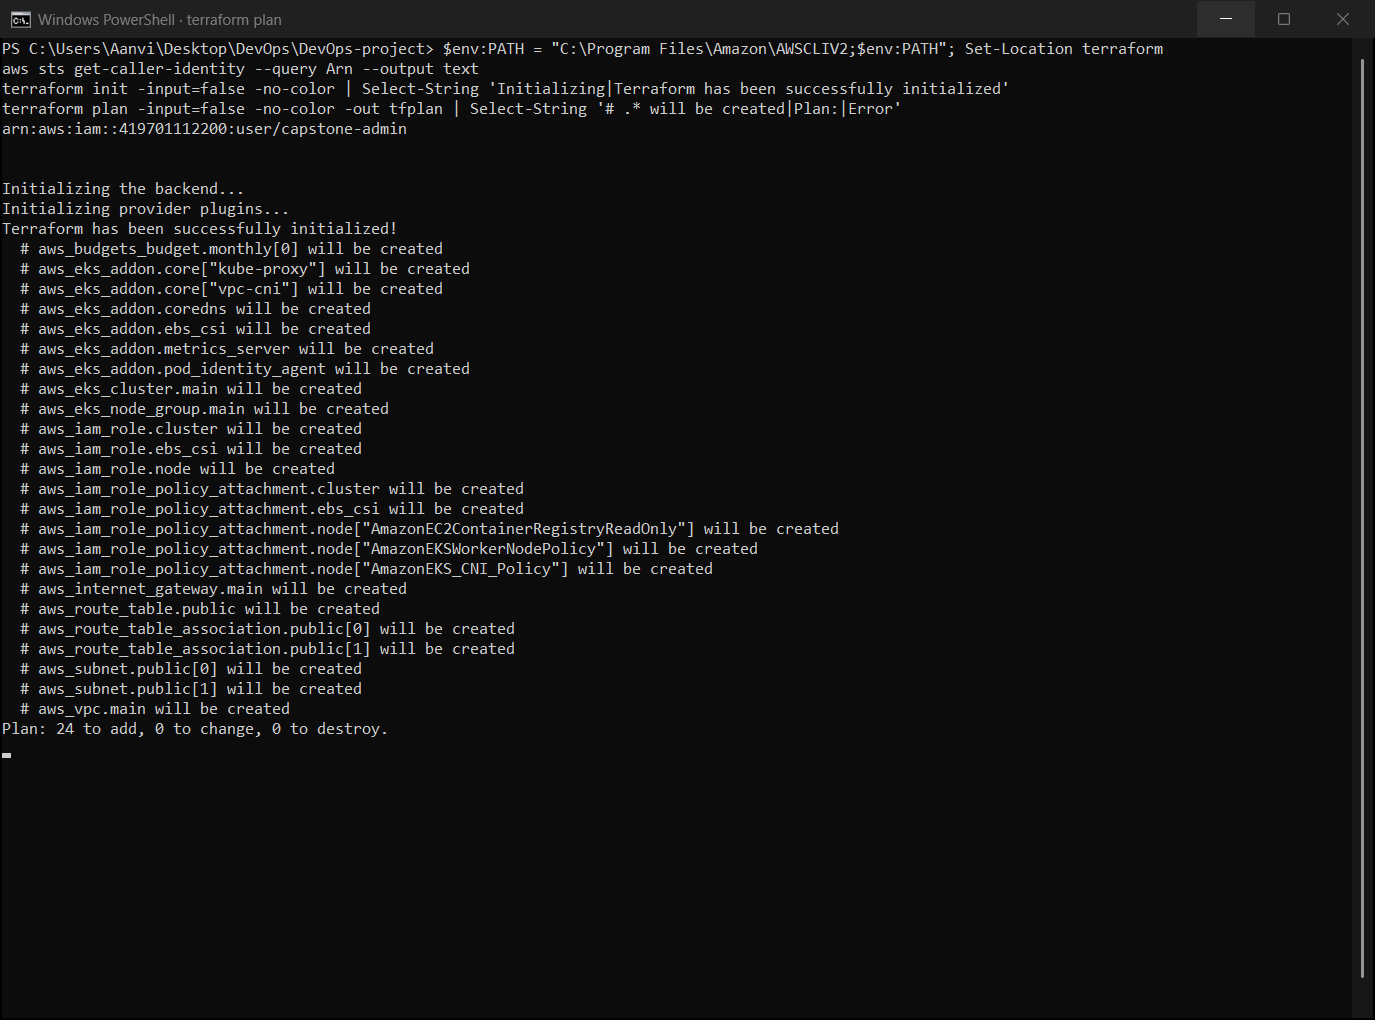
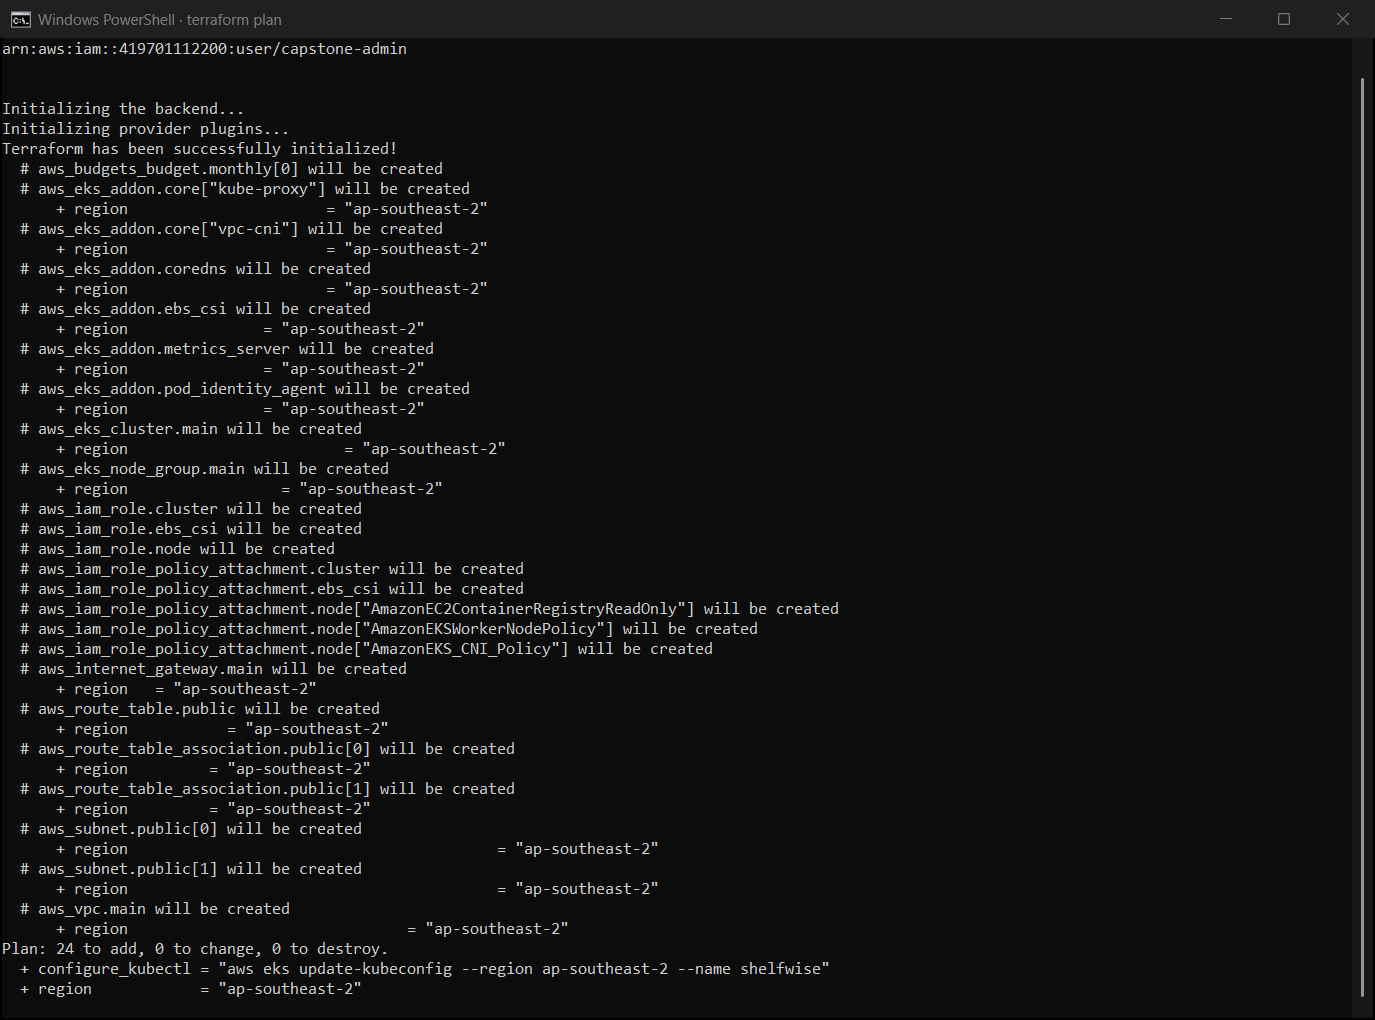
Add evidence of the real AWS deployment and its teardown (M7)
Terraform provisioned the VPC, two public subnets and an EKS 1.35 cluster with a
managed node group in ap-southeast-2 (24 resources), and the app was deployed onto
it with eks-up.ps1 and served through an AWS load balancer. Then eks-down.ps1
destroyed all 24 resources, and a final check found no clusters, instances, load
balancers, volumes or tagged resources left. Screenshots cover the plan, apply,
AWS Console (VPC and EKS), kubectl and the browser on EKS, and destroy.
SUBMISSION.md records the Free plan limits that shaped the run: Sydney only, no
Spot, and Free Tier instance types, which is why the first t3.medium node group
was replaced with m7i-flex.large.

Changed region(s): [[0.0, 0.0304, 0.8553, 0.9725], [0.3665, 0.8206, 0.4582, 0.8814], [0.5193, 0.9422, 0.5804, 0.9725]]

diff --git a/docs/SUBMISSION.md b/docs/SUBMISSION.md
@@ -68,29 +68,24 @@ Extra gates in the same pipeline: ruff lint and format (with bandit rules), a 90
 
 ## M7 · Terraform on AWS (15)
 
-> **Status at submission:** the Terraform code is complete, validated in CI, and `terraform plan` runs against the real AWS account. Creating the resources was **blocked by AWS**, not by the code. The account is a brand-new AWS **Free plan** account ($100 of credits, status ACTIVE), and AWS's service control policy on it explicitly denies EC2 and EKS calls in every region, even read-only ones ([m7-account-blocked.png](evidence/m7-account-blocked.png)). The apply, console and destroy screenshots will be added when the account allows it (see *Finishing M7* below).
+Provisioned for real on **AWS account 419701112200** (Free plan, paid from its credits), then destroyed the same day. The Free plan shaped three choices, recorded honestly here:
+- **Region.** The account is limited to **Sydney (`ap-southeast-2`)**; every other region is denied by AWS's service control policy ([m7-account-blocked.png](evidence/m7-account-blocked.png) shows the Mumbai attempt). The region is a single Terraform variable, so the same code targets any region.
+- **No Spot.** Spot launches are denied on the Free plan, so `node_capacity_type = "ON_DEMAND"`.
+- **Free Tier instance types only.** A first apply with `t3.medium` nodes stalled: AWS refused the launches with *"not eligible for Free Tier"*. The node group was removed and re-created on **`m7i-flex.large`** (2 vCPU, 8 GiB, Free Tier eligible). That is why the apply screenshot shows the final 5 resources: the other 19 were created by the first run.
 
 | Criterion | Where | Evidence |
 |---|---|---|
 | Valid HCL in `terraform/` | [`terraform/`](../terraform/): plain resources, no modules | CI job "Terraform · fmt and validate" in [m5-pipeline-green.png](evidence/m5-pipeline-green.png) |
 | `terraform init` succeeds | n/a | [m7-terraform-plan.png](evidence/m7-terraform-plan.png) |
-| `terraform plan` non-empty, no errors | run as `capstone-admin` in account 419701112200 | [m7-terraform-plan.png](evidence/m7-terraform-plan.png): **24 to add**, including VPC, 2 public subnets, EKS cluster and node group |
-| VPC with ≥2 public subnets | [`network.tf`](../terraform/network.tf) | pending: account blocked ([m7-account-blocked.png](evidence/m7-account-blocked.png)) |
-| EKS with a worker node group | [`cluster.tf`](../terraform/cluster.tf), [`nodes.tf`](../terraform/nodes.tf) | pending: account blocked |
-| `terraform destroy` clean | [`scripts/eks-down.ps1`](../scripts/eks-down.ps1) | pending: account blocked |
+| `terraform plan` non-empty, no errors | n/a | [m7-terraform-plan.png](evidence/m7-terraform-plan.png): **24 to add** in `ap-southeast-2` |
+| VPC with ≥2 public subnets | [`network.tf`](../terraform/network.tf) | [m7-aws-console-vpc.png](evidence/m7-aws-console-vpc.png) (`shelfwise-vpc`, 10.42.0.0/16), [m7-terraform-apply.png](evidence/m7-terraform-apply.png) (VPC id and subnet outputs) |
+| EKS with a worker node group | [`cluster.tf`](../terraform/cluster.tf), [`nodes.tf`](../terraform/nodes.tf) | [m7-aws-console-eks.png](evidence/m7-aws-console-eks.png) (Active, 1.35), [m7-eks-kubectl.png](evidence/m7-eks-kubectl.png) (2 Ready nodes, app running) |
+| `terraform destroy` clean | [`scripts/eks-down.ps1`](../scripts/eks-down.ps1) | [m7-terraform-destroy.png](evidence/m7-terraform-destroy.png) |
 | `terraform.tfvars.example`, no credentials | [`terraform.tfvars.example`](../terraform/terraform.tfvars.example); gitleaks in CI | n/a |
 
-The plan pins the two availability zones (`availability_zones` in `terraform.tfvars`), because listing zones is one of the EC2 calls the account cannot make yet. Leaving that setting empty makes Terraform look the zones up from AWS instead. Apply behaves the same either way, so nothing has to change in the code once the account is unblocked.
+The app was also deployed onto this cluster with [`scripts/eks-up.ps1`](../scripts/eks-up.ps1) (ingress-nginx behind an AWS load balancer, a random database password, the Helm chart, and `helm test` passing). See [m8-eks-ingress-browser.png](evidence/m8-eks-ingress-browser.png).
 
-Cost-conscious design (no NAT gateway, Spot nodes, standard-support pin, budget alert) is explained in [terraform/README.md](../terraform/README.md).
-
-### Finishing M7 once the account allows EC2/EKS
-
-1. Check access: `aws ec2 describe-availability-zones --region ap-south-1` must list zones instead of an `UnauthorizedOperation` error.
-2. `./scripts/eks-up.ps1`: terraform apply (asks first), ingress controller, the app, `helm test`. Capture the apply summary as `m7-terraform-apply.png` and `kubectl get nodes,pods -n shelfwise` as `m7-eks-kubectl.png`.
-3. AWS Console screenshots: `m7-aws-console-vpc.png` (VPC `shelfwise-vpc` and its subnets) and `m7-aws-console-eks.png` (cluster `shelfwise` and its node group).
-4. `./scripts/eks-down.ps1`: removes the load balancer and volume, then `terraform destroy`. Capture as `m7-terraform-destroy.png`.
-5. Replace the three "pending" cells above with those screenshots.
+Cost-conscious design (no NAT gateway, standard-support pin, budget alert) is explained in [terraform/README.md](../terraform/README.md).
 
 ## M8 · Kubernetes + Helm (15)
 
@@ -101,7 +96,7 @@ Cost-conscious design (no NAT gateway, Spot nodes, standard-support pin, budget 
 | `helm upgrade --install` deploys | n/a | [m8-helm-upgrade-install.png](evidence/m8-helm-upgrade-install.png) (with `helm test` passing) |
 | Backend and frontend ≥2 replicas | HPA `minReplicas: 2` | [m8-kubectl-get.png](evidence/m8-kubectl-get.png) |
 | ClusterIP Services | [`backend.yaml`](../helm/shelfwise/templates/backend.yaml), [`frontend.yaml`](../helm/shelfwise/templates/frontend.yaml) | [m8-kubectl-get.png](evidence/m8-kubectl-get.png) |
-| Ingress `/` → frontend, `/api` → backend | [`ingress.yaml`](../helm/shelfwise/templates/ingress.yaml) | [m8-kubectl-get.png](evidence/m8-kubectl-get.png); the app through `shelfwise.local` in [m1-app-catalogue.png](evidence/m1-app-catalogue.png) |
+| Ingress `/` → frontend, `/api` → backend | [`ingress.yaml`](../helm/shelfwise/templates/ingress.yaml) | [m8-kubectl-get.png](evidence/m8-kubectl-get.png); the app through `shelfwise.local` in [m1-app-catalogue.png](evidence/m1-app-catalogue.png), and on **AWS EKS** through its load balancer in [m8-eks-ingress-browser.png](evidence/m8-eks-ingress-browser.png) |
 | All pods Running | n/a | [m8-kubectl-get.png](evidence/m8-kubectl-get.png) |
 | `helm list` | n/a | [m8-kubectl-get.png](evidence/m8-kubectl-get.png), [m8-helm-upgrade-install.png](evidence/m8-helm-upgrade-install.png) |
 | HPA | [`autoscaling.yaml`](../helm/shelfwise/templates/autoscaling.yaml) | [m8-hpa-scaling.png](evidence/m8-hpa-scaling.png): 2 → 6 replicas under k6 load |

diff --git a/README.md b/README.md
@@ -78,7 +78,7 @@ The full picture, including the AWS network and the reasoning behind each choice
 | CI/CD | GitHub Actions: lint, test, build, Helm and Terraform validation, gitleaks, Trivy, GHCR push |
 | Delivery | Argo CD + Image Updater (GitOps, no bot commits) |
 | Kubernetes | Helm chart: Deployments, StatefulSet, Services, Ingress, HPA, PDB, NetworkPolicy, `helm test` |
-| Infrastructure | Terraform (plain AWS resources): VPC, subnets, IAM, EKS 1.35, Spot node group, add-ons, budget alert |
+| Infrastructure | Terraform (plain AWS resources): VPC, subnets, IAM, EKS 1.35, managed node group, add-ons, budget alert; applied on AWS in Sydney, then destroyed |
 | Observability | Prometheus metrics (HTTP plus library-specific), alert rules, Grafana dashboard |
 
 ## Repository layout
